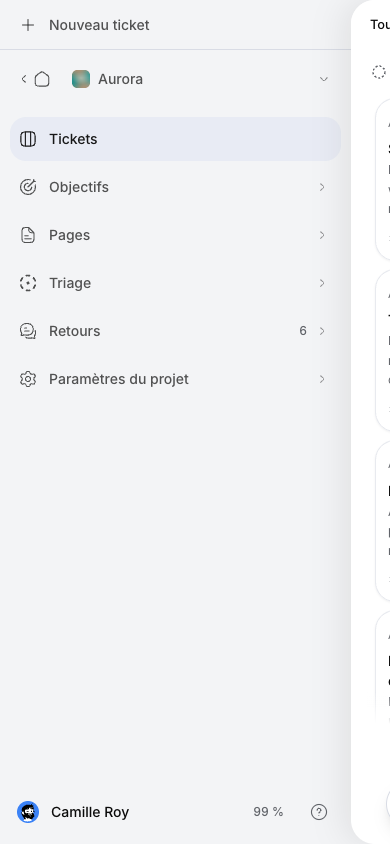
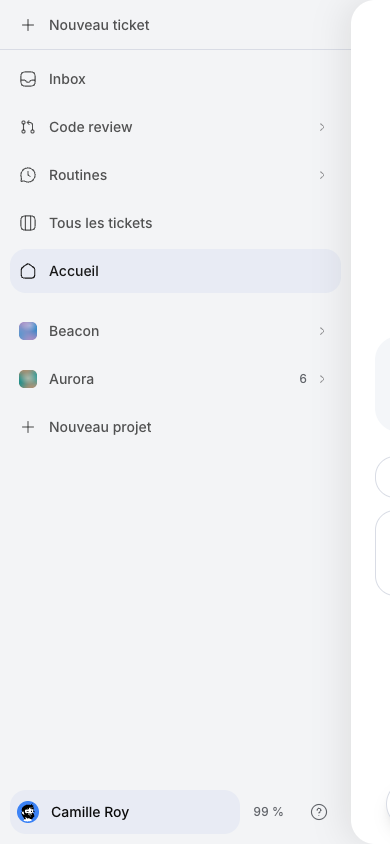
feat: add centered depth animation to mobile sidebar

diff --git a/components/mobile-sidebar-reveal.tsx b/components/mobile-sidebar-reveal.tsx
@@ -1,6 +1,6 @@
 "use client";
 
-import { useEffect, useLayoutEffect, useRef, useState, type ReactNode, type RefObject } from "react";
+import { useEffect, useLayoutEffect, useRef, useState, type CSSProperties, type ReactNode, type RefObject } from "react";
 import { createPortal } from "react-dom";
 import { useTranslations } from "next-intl";
 import { useMobileLayout } from "@/lib/use-mobile-layout";
@@ -8,7 +8,7 @@ import { mobileSidebarWidth, sidebarGestureIntent, sidebarGestureSettlesOpen, si
 
 const FOCUSABLE = 'a[href], button:not([disabled]), input:not([disabled]), textarea:not([disabled]), select:not([disabled]), [tabindex="0"]';
 
-/** A sidebar behind the full-width page; only the page surface translates. */
+/** A sidebar that rises from behind the translated full-width page. */
 export function MobileSidebarReveal({ open, onOpenChange, trigger, focusTarget, children, label }: {
   open: boolean; onOpenChange: (open: boolean) => void;
   trigger: RefObject<HTMLButtonElement | null>; focusTarget: RefObject<HTMLElement | null>;
@@ -24,6 +24,7 @@ export function MobileSidebarReveal({ open, onOpenChange, trigger, focusTarget, 
   const swallowClick = useRef(false);
   const wasOpen = useRef(false);
   const offset = drag ?? (open ? width : 0);
+  const progress = width > 0 ? Math.max(0, Math.min(1, offset / width)) : 0;
   const shown = open || drag !== null;
 
   useLayoutEffect(() => {
@@ -137,7 +138,8 @@ export function MobileSidebarReveal({ open, onOpenChange, trigger, focusTarget, 
   return createPortal(<>
     <div ref={drawer} role={shown ? "dialog" : undefined} aria-modal={shown || undefined} aria-label={label}
       data-mobile-sidebar-dialog data-state={shown ? "open" : "closed"} aria-hidden={!shown} inert={!shown}
-      className="mobile-sidebar-reveal" style={{ width }}>
+      data-mobile-sidebar-dragging={drag !== null}
+      className="mobile-sidebar-reveal" style={{ width, "--mobile-sidebar-progress": progress } as CSSProperties}>
       {children}
     </div>
     {shown && <button type="button" data-mobile-sidebar-dismiss aria-label={tc("close")} onClick={() => onOpenChange(false)} style={{ left: offset }} />}

diff --git a/app/globals.css b/app/globals.css
@@ -3004,7 +3004,13 @@ html[data-integrated-caption-controls]:not([data-app-top-bar]) .desktop-drag-ban
     z-index: 0;
     touch-action: pan-y;
     overflow: hidden;
+    transform-origin: center;
+    transform: scale(calc(0.94 + var(--mobile-sidebar-progress, 0) * 0.06));
+    opacity: calc(0.65 + var(--mobile-sidebar-progress, 0) * 0.35);
+    transition: transform 260ms cubic-bezier(0.22, 1, 0.36, 1), opacity 260ms cubic-bezier(0.22, 1, 0.36, 1);
+    will-change: transform, opacity;
   }
+  .mobile-sidebar-reveal[data-mobile-sidebar-dragging="true"] { transition: none; }
   .app-shell[data-mobile-sidebar-surface] {
     position: relative;
     z-index: 1;
@@ -3029,7 +3035,10 @@ html[data-integrated-caption-controls]:not([data-app-top-bar]) .desktop-drag-ban
     background: transparent;
     touch-action: pan-y;
   }
-  @media (prefers-reduced-motion: reduce) { .app-shell[data-mobile-sidebar-surface] { transition: none; } }
+  @media (prefers-reduced-motion: reduce) {
+    .app-shell[data-mobile-sidebar-surface] { transition: none; }
+    .mobile-sidebar-reveal { transform: none; opacity: 1; transition: none; }
+  }
   .mobile-bottom-sheet :is([data-slot="side-panel-header"], [data-slot="side-panel-footer"]) {
     border: 0;
     padding: 8px 16px;

diff --git a/docs/audits/mobile-2026-10-07.md b/docs/audits/mobile-2026-10-07.md
@@ -118,6 +118,12 @@ the drawer's width. Inputs, board-column interactions and nested modals
 retain their gestures. Safe-area padding, a fixed footer, focus containment,
 inert page content and reduced motion are handled at the reveal boundary.
 
+The sidebar itself now scales from 94% to 100% around its center while opacity
+rises from 65% to 100%, sharing the page's 260ms easing. Its layout dimensions
+stay fixed, so fully opened rows and the pinned footer retain desktop parity.
+Dragging maps scale and opacity directly to reveal progress without transition
+lag. Reduced motion keeps the sidebar at full scale and opacity.
+
 Mobile keeps desktop typography, icons and controls while selectable rows have
 at least 44px height. Page-tree expansion, options and creation buttons have
 44 × 44px targets and remain visible without hover. This follows the enhanced
@@ -437,3 +443,14 @@ TypeScript, owned-English and diff checks passed.
 After backing removal, all 18 tests in the four responsive-surface, navigation,
 reveal and clearance suites passed. The 23-state browser sweep retained calendar
 layout, sheet keyboard positioning and desktop behavior without adding a backing.
+
+The depth animation passed 11 tests across the navigation, reveal and gesture
+suites, plus lint, scoped TypeScript, owned-English and diff checks. Chromium
+sampled 25 opening frames and 23 closing frames: the sidebar center stayed fixed
+while scale and opacity changed. A native touch swipe reached 97% scale at half
+reveal without transition lag; cancellation restored the closed state. Reduced
+motion removed scaling, and desktop retained its existing sidebar layout.
+
+![Centered sidebar reveal animation](images/min-636/sidebar-depth.gif)
+
+![Sidebar at half reveal](images/min-636/sidebar-depth-half.png)
